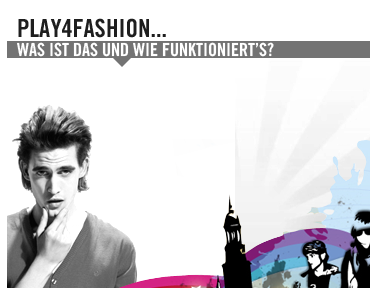
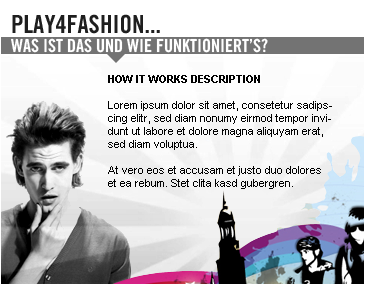
some user brief tpl work and added skyscraper

diff --git a/themes/pbpoker/pbpoker.css b/themes/pbpoker/pbpoker.css
@@ -154,7 +154,7 @@ ul.secondary li a.active {
 #page-inner #sponsor {
 	position: absolute;
 	top: 0;
-	right: -170px;
+	right: -180px;
 }
 
 #page-inner, #header-inner, #navbar-inner {
@@ -326,7 +326,7 @@ body.iframe #main {
 }
 
 #user_login .right_align {
-	margin: 28px 15px 0;
+	/*margin: 28px 15px 0;*/
 }
 
 #user_login .fleft, #user_login .fright {
@@ -375,6 +375,29 @@ body.iframe #main {
 	float: none;
 }
 
+#avatar img {
+	height: 40px;
+	width: 40px;
+}
+
+#avatar {
+	padding-top: 6px;
+	margin-right: 6px;
+}
+
+#user_info_box .fleft, #user_info_box .fright {
+	margin: 0;
+}
+
+#user_info_box {
+	margin-top: 12px;
+}
+
+#user_info_box p {
+	font-size: 10px;
+}
+
+
 /* FIXME */
 .small_white_text, .small_white_text a {
 	text-decoration: none;
@@ -391,10 +414,10 @@ body.iframe #main {
 }
 
 /* FIXME MAYBE - this stuff is in main.css */
-a.logout {
-	font-weight: normal !important;
-	z-index: 99;
-	position: relative;
+#logout a {
+	/*font-weight: normal !important;*/
+	/*z-index: 99;*/
+	/*position: relative;*/
 }
 
 #user_login .poker_submit {
@@ -911,17 +934,6 @@ div.poker_submit.big.disabled:hover div.label {
 	margin-bottom: 4px;
 }
 
-#user-brief .avatar img {
-	/*height: 69px;*/
-	/*width: 69px;*/
-	height: 40px;
-	width: 40px;
-	display: block;
-	padding: 0;
-	margin: 0;
-	/*border: 1px solid #653a38;*/
-}
-
 #user-brief .info1 {
 	width: 140px;
 	/*padding-left: 8px;*/
@@ -969,22 +981,6 @@ div.poker_submit.big.disabled:hover div.label {
 .reward_status {
 	margin: 8px 0 0;
 	white-space: nowrap;
-}
-
-/* moving Login infos up to header */
-
-.welcome {
-	color: #FFF;
-	top: -180px;
-	left: 465px;
-	position: absolute;
-	font-weight: normal;
-}
-
-.avatar {
-	top: 36px;
-	left: 488px;
-	position: absolute;
 }
 
 /*************************
@@ -2708,7 +2704,7 @@ body.poker-tourneyinfo #middle-content-right {
 /* Front page elements */
 #how_it_works {
 	background: transparent url(images/how_it_works_bg.png) no-repeat scroll -6px 0;
-	height: 296px;
+	height: 285px;
 	width: 365px;
 	color: #000;
 }
@@ -2862,3 +2858,20 @@ body.poker-tourneyinfo #middle-content-right {
   width: 321px;
   height: 162px;
 }
+
+/* Skyscraper advert */
+
+#skyscraper {
+	position: absolute;
+	left: 775px;
+	top: 152px;
+}
+
+#skyscraper img {
+	width: 180px;
+	height: 475px;
+}
+
+
+
+

diff --git a/themes/pbpoker/user_header_brief.tpl.php b/themes/pbpoker/user_header_brief.tpl.php
@@ -1,0 +1,42 @@
+<div id="user_login">
+		<p class="fleft"><?php print t("Welcome") . ", <strong>" . ucfirst($os_user->profile_nickname)."</strong>"; ?></p>
+		<p class="fright"><? print l(t('Logout'), 'poker/logout', array('attributes'=> array('class' => 'logout'))); ?></p>
+		<div class="clear"></div>
+		<div id="avatar" class="fleft"><?php print theme('user_picture', $os_user); ?></div>
+
+		<div id="user_info_box">
+			<div class="fleft">
+				<p class="buddy_count">
+					<?php
+						$buddies = $os_user->Buddies(TRUE);
+						$status_string = t("You have @buddies Pokerbuddies", array("@buddies" => count($buddies))) . " (<u>";
+						$onl = 0;
+						foreach($buddies as $buddy) {
+							if ($buddy->Online()) {
+								++$onl;
+							}
+						}
+						$status_string .= t("@buddies Online", array("@buddies" => $onl)) . "</u>)";
+						print $status_string;
+					?>
+				</p>
+			</div>
+
+			<div class="fright">
+				<div class="poker_submit" onclick='javascript:os_poker_trigger("os_poker_jump", {url:"<?php print url("poker/buddies/invite", array("query" => array("height" => 442, "width" => 603), "absolute" => FALSE)); ?>", lightbox:true});'>
+					<div class="label"><?php print(t("Invite more")) ?></div>
+				</div>
+			</div>
+
+			<div class="fleft">
+				<p class="chips_count">
+					<?php print t("You have !chips Chips", array("!chips" => "<u><b class='chips'>" . $os_user->Chips(TRUE) . "</b></u>")); ?>
+				</p>
+			</div>
+			<div class="fright">
+				<div class="poker_submit" onclick='javascript:os_poker_trigger("os_poker_jump", {url:"<?php print url("poker/shop/get_chips", array("query" => array("height" => 442, "width" => 603), "absolute" => FALSE)); ?>", lightbox:true});'>
+					<div class="label" style="width: 60px; text-align: center;"><?php print(t("Get more")) ?></div>
+				</div>
+			</div>
+		</div>
+</div>

diff --git a/themes/pbpoker/language_bar.tpl.php b/themes/pbpoker/language_bar.tpl.php
@@ -1,0 +1,52 @@
+<div class="language-bar">
+	<?php
+	if (variable_get('language_count', 1) > 1 && variable_get('language_negotiation', LANGUAGE_NEGOTIATION_NONE) != LANGUAGE_NEGOTIATION_NONE)
+	{
+		global $language;
+
+		$path = drupal_is_front_page() ? '<front>' : $_GET['q'];
+		$languages = language_list('enabled');
+		$links = array();
+		$output = array();
+
+		foreach ($languages[1] as $lang)
+		{
+			$name = $lang->language;
+			$links[$name] = array(
+				'href'       => $path,
+				'title'      => $lang->native,
+				'language'   => $lang,
+				'attributes' => array('class' => 'language-link'),
+			);
+
+			drupal_alter('translation_link', $links, $path);
+
+			if ($icons == TRUE)
+			{
+				$img = "<img src=\"" . drupal_get_path('module', 'os_poker') . "/images/{$name}.png\" title=\"" . $links[$name]["title"] . "\" alt=\"" . $links[$name]["title"] . "\"/>";
+			}
+			else
+			{
+				$links[$name]['attributes']['class'] .= " text";
+				$img = $links[$name]["title"];
+			}
+
+			if ($language->language == $lang->language)
+			{
+				$links[$name]['attributes']['class'] .= " current";
+			}
+
+			$output []= l($img, $links[$name]["href"], array("attributes" => $links[$name]["attributes"],	'language' => $links[$name]["language"], "html" => $icons)) ;
+		}
+
+		if ($icons == TRUE)
+		{
+			print implode("", $output);
+		}
+		else
+		{
+			print implode("&nbsp;|", $output);
+		}
+	}
+	?>
+</div>

diff --git a/themes/pbpoker/template.php b/themes/pbpoker/template.php
@@ -30,6 +30,10 @@ function pbpoker_theme() {
 		'arguments' => array('os_user' => NULL),
 		'template' => 'user_brief',
 	),
+	'os_poker_header_user_brief' => array(
+		'arguments' => array('os_user' => NULL),
+		'template' => 'user_header_brief',
+	),
 	'os_poker_welcome-splash' => array(
 		'arguments' => array('os_user' => NULL),
 		'template' => 'welcome-splash',
@@ -50,6 +54,10 @@ function pbpoker_theme() {
       'template' => 'user_login',
       'arguments' => array('form' => NULL),
     ),
+	'os_poker_languages' => array(
+		'arguments' => array('icons' => FALSE),
+		'template' => 'language_bar',
+	),
 	/* end of added stuff */
   );
 }

diff --git a/modules/os_poker/user_header_brief.tpl.php b/modules/os_poker/user_header_brief.tpl.php
@@ -9,13 +9,13 @@
 		</div>
 		<div class="user_login_brief_row">
 			<p class="buddy_count">
-				<?php 
+				<?php
 					$buddies = $os_user->Buddies(TRUE);
-				
+
 					$status_string = t("You have @buddies Pokerbuddies", array("@buddies" => count($buddies))) . " (<b><u>";
-					
+
 					$onl = 0;
-					
+
 					foreach($buddies as $buddy)
 					{
 						if ($buddy->Online())
@@ -23,9 +23,9 @@
 							++$onl;
 						}
 					}
-					
+
 					$status_string .= t("@buddies Online", array("@buddies" => $onl)) . "</u></b>)";
-					
+
 					print $status_string;
 				?>
 			</p>

diff --git a/themes/pbpoker/user_brief.tpl.php b/themes/pbpoker/user_brief.tpl.php
@@ -1,18 +1,10 @@
 <div id="user-brief">
 	<div id="user-brief-inner">
-		<div class="fleft avatar">
-      <?php print theme('user_picture', $os_user); ?>
-		</div>
 		<div class="fleft info1">
-			<p class="welcome">
-				<?php print t("Welcome") . ", <strong>" . ucfirst($os_user->profile_nickname)."</strong>"; ?>
-			</p>
 			<p class="info">
 				<?php
 					print t("Chips") . ": <b class='chips'>" . $os_user->Chips(TRUE) . "</b><br/>";
-
 					$s = $os_user->StatusEx($level, $maxl);
-
 					print t("Status") . ": {$s} ({$level}/{$maxl})";
 				?>
 			</p>

diff --git a/themes/pbpoker/page-front.tpl.php b/themes/pbpoker/page-front.tpl.php
@@ -213,6 +213,11 @@ $cfg_theme_path = drupal_get_path("theme", "pbpoker")?>
 
 			</div></div> <!-- /#content-inner, /#content -->
 		</div>
+
+		<div id="skyscraper">
+			<img src="<? print $cfg_theme_path; ?>/images/skyscraper_1.png"/>
+		</div>
+
 	</div> <!-- /#main-inner, /#main -->
 
     <?php if ($footer || $footer_message): ?>
